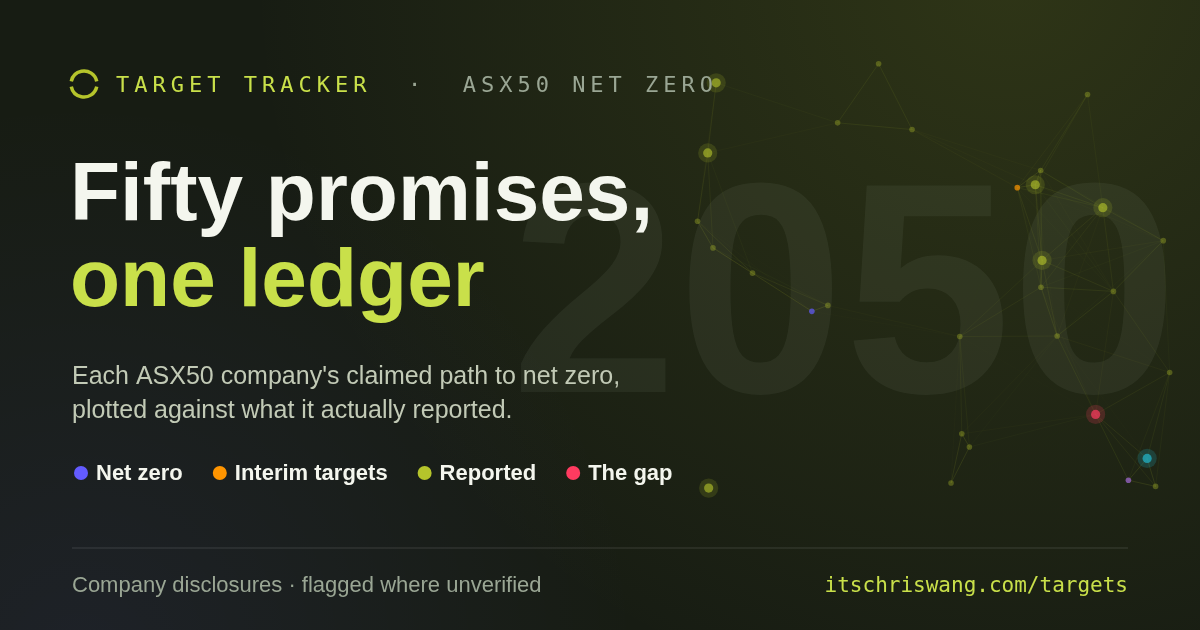
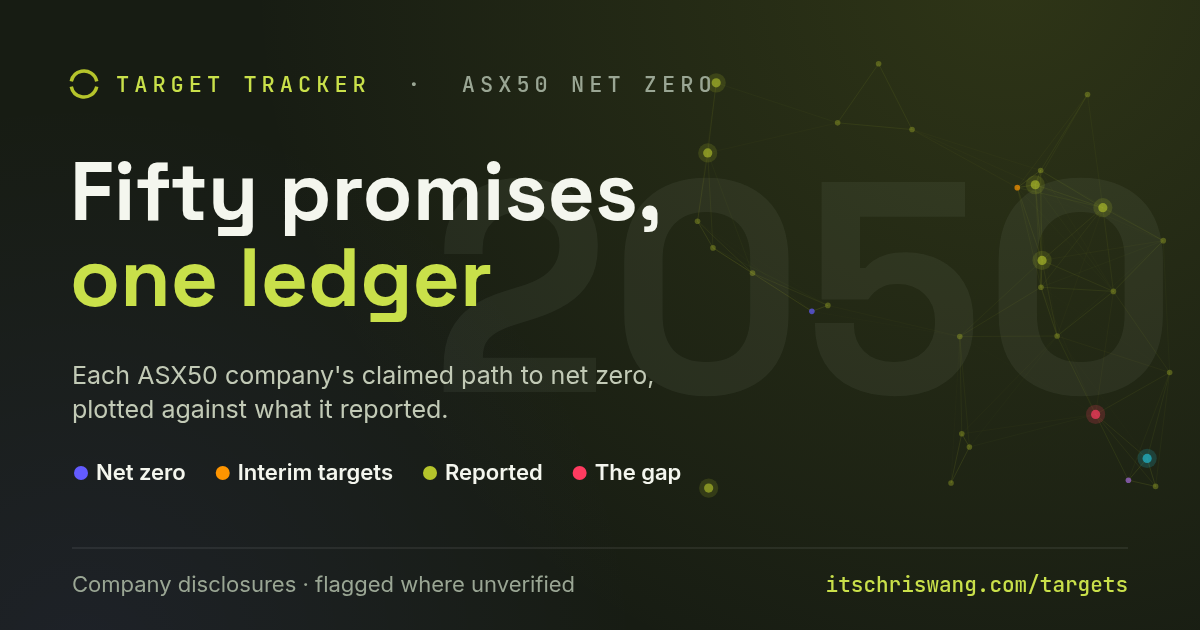
Remove another round of AI-writing tells from the site copy (#126)
A second editorial pass, following the same rules as the first.

The 'actually' reframe ('what X actually is') was the widespread one: 27
instances cut from rendered copy across every page, the entry-page meta
descriptions and the Target Tracker share card. Two instances stay on
purpose, in the recyclable-claim reasoning on Sustainability Daily and its
Cost Per Wear counterpart, where the word carries the technically-recyclable
versus recycled-in-practice distinction.

'Genuinely' cut in six places, 'quietly' in two. The Super Fund Holdings
intro loses its most-people-have-never-seen hook and now opens on the plain
fact of default placement. Australia's Climate Progress retitles from 'What
is actually changing' to 'What is changing, and how fast', carried through
the page title, og and twitter tags.

og-targets.png regenerated for its reworded support line.

diff --git a/src/fashion/data.js b/src/fashion/data.js
@@ -1223,7 +1223,7 @@ export const FIBRES = [
   { name: 'Recycled polyester (rPET)', kind: 'Synthetic', good: 'Roughly half the carbon of virgin polyester; look for GRS certification.', watch: 'Still sheds microplastics; mostly made from drink bottles, and it recycles once.' },
   { name: 'Nylon', kind: 'Synthetic', good: 'Strong and elastic; recycled versions (e.g. ECONYL) exist.', watch: 'Fossil-derived, energy-intensive, sheds microplastics.' },
   { name: 'Viscose / rayon', kind: 'Regenerated', good: 'Soft, breathable, plant-derived from wood pulp.', watch: 'Can drive deforestation and use harsh solvents unless responsibly sourced.' },
-  { name: 'Lyocell (Tencel)', kind: 'Regenerated', good: 'Wood pulp spun in a closed-loop solvent system; look for FSC pulp.', watch: 'Genuinely lower-impact only when the pulp is responsibly sourced.' },
+  { name: 'Lyocell (Tencel)', kind: 'Regenerated', good: 'Wood pulp spun in a closed-loop solvent system; look for FSC pulp.', watch: 'Lower-impact only when the pulp is responsibly sourced.' },
   { name: 'Leather', kind: 'Animal', good: 'Durable and repairable; ages well.', watch: 'Linked to land use and deforestation; tanning can be chemically intensive.' },
   { name: 'Elastane / spandex', kind: 'Synthetic', good: 'A little adds stretch and fit.', watch: 'Even small amounts blended in can make a garment unrecyclable.' },
 ];
@@ -1342,7 +1342,7 @@ export const LENS_CONCERNS = [
   },
   {
     id: 'ownership', label: 'Ownership and governance', signals: [], ownership: true,
-    why: 'Who actually makes the decisions on targets, suppliers and wages. Cost Per Wear verifies this for every brand on file.',
+    why: 'Who makes the decisions on targets, suppliers and wages. Cost Per Wear verifies this for every brand on file.',
   },
 ];
 
@@ -1411,7 +1411,7 @@ export const VAGUE_TERMS = [
   { re: /\bclean\b/gi, term: 'clean', ask: 'Clean of what? Name the substance or drop the word.' },
   { re: /\bkind (to|on) the planet\b/gi, term: 'kind to the planet', ask: 'The planet has not been consulted. State the measured impact instead.' },
   { re: /\bplanet[- ](positive|friendly)\b/gi, term: 'planet positive', ask: 'A net-positive claim needs extraordinary evidence. Where is it?' },
-  { re: /\bguilt[- ]free\b/gi, term: 'guilt-free', ask: 'Feelings are not a metric. State what the garment actually does.' },
+  { re: /\bguilt[- ]free\b/gi, term: 'guilt-free', ask: 'Feelings are not a metric. State what the garment does.' },
   { re: /\bearth[- ]friendly\b/gi, term: 'earth-friendly', ask: 'Friendly how? Pick an impact, state the change.' },
 ];
 
@@ -1740,7 +1740,7 @@ export function scoreCircularity(g, choices) {
 
   if (!g.isBlend && g.loop === 'mono') {
     rows.push({ id: 'mono', label: 'One-fibre construction', pts: 25, max: 25,
-      why: 'A single fibre means a recycler can actually take it.' });
+      why: 'A single fibre means a recycler can take it.' });
   } else if (!g.isBlend) {
     rows.push({ id: 'mono', label: 'One-fibre construction', pts: 15, max: 25,
       why: `${g.fibreA.name} recycles in theory, rarely in practice. Points for possibility.` });
@@ -1793,7 +1793,7 @@ export const COPY = {
   hero: {
     kicker: 'Fashion brand transparency',
     headA: 'Look up the brands',
-    headB: 'you actually wear',
+    headB: 'you wear',
     stand: 'Before you buy, see what a fashion brand is willing to tell you. Search any major label to find who really owns it, how much it discloses, and what still needs checking. What comes back is a disclosure record.',
     searchLabel: 'Search a fashion brand',
     searchPlaceholder: 'Try Nike, Zara, Gucci, Kmart, Uniqlo…',
@@ -1993,14 +1993,14 @@ export const COPY = {
     icon: 'book',
     title: 'Field guide',
     sub: 'Materials, labels, rules and claims',
-    lede: 'The working knowledge behind the lookup, in one place: what the common fibres trade off, what certifications actually verify, the rules about to change what brands must tell you, and a checker for the claims on the swing tag.',
+    lede: 'The working knowledge behind the lookup, in one place: what the common fibres trade off, what certifications verify, the rules about to change what brands must tell you, and a checker for the claims on the swing tag.',
     tabs: [
       { id: 'materials', label: 'Materials' },
       { id: 'certs', label: 'Certifications' },
       { id: 'regulation', label: 'Regulation' },
       { id: 'claim', label: 'Claim check' },
     ],
-    certTitle: 'What the certifications actually verify',
+    certTitle: 'What the certifications verify',
     certLede: 'A certificate proves one specific, bounded thing. Knowing its edge is how you avoid reading a single label as a blanket "this is good".',
     certVerifies: 'Verifies',
     certEdge: 'Its edge',

diff --git a/src/progress/data.js b/src/progress/data.js
@@ -33,9 +33,9 @@ export const META = {
 export const INTRO = {
   tag: 'The tracker',
   kicker: 'Australia · climate transition',
-  title: ['What is actually', 'changing'],
+  title: ['What is changing,', 'and how fast'],
   sub: 'Doom is easy and cheerleading is worse. This is a handful of real numbers on Australia\'s energy transition, each shown against where it was and against what the target needs, with the distance between the two stated plainly in whichever direction it runs.',
-  read: 'Each chapter reads the same way. First the reference point, quietly: what it was, or what the target needs. Then the number as it stands now. Then one sentence on the gap between them.',
+  read: 'Each chapter reads the same way. First the reference point: what it was, or what the target needs. Then the number as it stands now. Then one sentence on the gap between them.',
   scroll: 'Scroll',
 };
 
@@ -216,7 +216,7 @@ export const CHAPTERS = [
     },
     reveal: {
       value: 24.5, decimals: 1, prefix: '', suffix: '% below',
-      label: 'where emissions actually were in the year to December 2025, against the June 2005 base year',
+      label: 'where emissions stood in the year to December 2025, against the June 2005 base year',
       sub: 'Total emissions were 458.9 Mt CO2-e, down 2.1 per cent on the year before, all sectors including land use. Take the land sector out and the same release gives 510.9 Mt, only 3.8 per cent below 2005.',
     },
     gap: 'The target is 43 per cent below 2005 by 2030. At 24.5 per cent below, Australia sits roughly 10 percentage points behind the straight line to that target, with five years to close it. The Climate Change Authority puts the same gap as a rate: emissions fell about 10 Mt in 2025 and have averaged 8 Mt a year over five years, against the 18 Mt a year the 2030 target needs. That is roughly half the required pace. The land sector heavily shapes the headline, which is why the method spells out how it is counted.',
@@ -239,7 +239,7 @@ export const CHAPTERS = [
       label: 'of rooftop solar installed by the end of 2025, across about 4.3 million homes and small businesses',
       sub: 'On the Clean Energy Council\'s read, rooftop is projected to pass its 2029/30 benchmark by about 1 GW. That benchmark is AEMO\'s 2024 ISP projection of 36.1 GW of distributed solar in the NEM, a modelled capacity requirement.',
     },
-    gap: 'This is the metric that is genuinely ahead. Households built it faster than any policy asked them to, and it now carries a real share of daytime demand: rooftop alone was 14.2 per cent of generation in the second half of 2025. It is the only line on this page running ahead of what was modelled for it.',
+    gap: 'Households built this faster than any policy asked them to, and it now carries a real share of daytime demand: rooftop alone was 14.2 per cent of generation in the second half of 2025. It is the only line on this page running ahead of what was modelled for it.',
     period: 'To end of 2025',
     status: 'sourced',
     sources: ['cec_rooftop'],
@@ -253,7 +253,7 @@ export const SUMMARY = {
   title: ['Moving, and', 'not fast enough'],
   lead: 'Both columns below are true at the same time. Picking one of them is where most coverage of this subject goes wrong.',
   moving: {
-    head: 'What is genuinely moving',
+    head: 'What is moving',
     items: [
       'Renewables passed half the NEM in the December 2025 quarter, and out-generated coal for a whole month for the first time in September 2025.',
       'Electric cars went from under 1 per cent of new sales to more than 8 per cent in five years.',

diff --git a/progress/index.html b/progress/index.html
@@ -8,8 +8,8 @@
        noindex is the signal that removes it from search results it already
        reached. -->
   <meta name="robots" content="noindex, nofollow">
-  <title>Australia's Climate Progress | What is actually changing</title>
-  <meta name="description" content="An honest, scroll-driven tracker of what is actually changing in Australia's climate transition: renewables and coal in the NEM, EV sales, renewable build rate and national emissions, each read against the target and the gap. Sourced figures, dated, reviewed quarterly. A working tool by Chris Wang.">
+  <title>Australia's Climate Progress | What is changing, and how fast</title>
+  <meta name="description" content="An honest, scroll-driven tracker of what is changing in Australia's climate transition: renewables and coal in the NEM, EV sales, renewable build rate and national emissions, each read against the target and the gap. Sourced figures, dated, reviewed quarterly. A working tool by Chris Wang.">
   <link rel="canonical" href="https://itschriswang.com/progress/">
   <link rel="icon" type="image/svg+xml" href="../mark.svg">
   <link rel="icon" type="image/png" href="../favicon.png">
@@ -18,16 +18,16 @@
   <meta property="og:type" content="website">
   <meta property="og:site_name" content="Chris Wang | Sustainability Advisor">
   <meta property="og:url" content="https://itschriswang.com/progress/">
-  <meta property="og:title" content="Australia's Climate Progress | What is actually changing">
-  <meta property="og:description" content="A clear-eyed tracker of what is actually moving in Australia's transition, and by how much it still falls short. Real numbers, cited and dated, reviewed quarterly. A working tool by Chris Wang.">
+  <meta property="og:title" content="Australia's Climate Progress | What is changing, and how fast">
+  <meta property="og:description" content="A clear-eyed tracker of what is moving in Australia's transition, and by how much it still falls short. Real numbers, cited and dated, reviewed quarterly. A working tool by Chris Wang.">
   <meta property="og:image" content="https://itschriswang.com/og-progress.png">
   <meta property="og:image:width" content="1200">
   <meta property="og:image:height" content="630">
   <meta property="og:image:alt" content="Share card reading &quot;Is Australia on track?&quot;, with labels for grid, EV sales, capacity, emissions and target.">
   <meta property="og:locale" content="en_AU">
   <meta name="twitter:card" content="summary_large_image">
-  <meta name="twitter:title" content="Australia's Climate Progress | What is actually changing">
-  <meta name="twitter:description" content="What is actually changing in Australia's climate transition, read honestly against the target and the gap. A working tool by Chris Wang.">
+  <meta name="twitter:title" content="Australia's Climate Progress | What is changing, and how fast">
+  <meta name="twitter:description" content="What is changing in Australia's climate transition, and how fast, read honestly against the target and the gap. A working tool by Chris Wang.">
   <meta name="twitter:image" content="https://itschriswang.com/og-progress.png">
   <link rel="preconnect" href="https://fonts.googleapis.com">
   <link rel="preconnect" href="https://fonts.gstatic.com" crossorigin>

diff --git a/src/super/data.js b/src/super/data.js
@@ -388,7 +388,7 @@ export const COPY = {
     tag: 'Super Fund Holdings',
     title: ['What your default', 'super option holds'],
     paras: [
-      'Most Australians have never seen what their default super option actually holds. You are placed in a MySuper default when you start a job, and it quietly invests a large share of your retirement money for decades. This tool puts one thing next to another: the holdings picture of a fund\'s default option, and that same fund\'s own sustainability marketing, in the fund\'s own words.',
+      'You are placed in a MySuper default when you start a job, and it invests a large share of your retirement money for decades. Few members ever read what that option holds. This tool puts one thing next to another: the holdings picture of a fund\'s default option, and that same fund\'s own sustainability marketing, in the fund\'s own words.',
       'It is not an accusation. Pick a fund, read what it says about climate and responsibility, then look at what the default option holds, and make up your own mind.',
     ],
     chips: ['MySuper defaults', 'Holdings next to marketing', 'Every figure sourced or marked pending', 'Neutral and factual'],
@@ -467,7 +467,7 @@ export const METHOD = {
   boundary: {
     title: 'Boundary: default options only',
     paras: [
-      'This tool looks at one thing per fund: the default MySuper option, the one you are placed in when you start a job and never choose an option yourself. The default is where most people\'s money actually sits, most of them without ever picking it, so it is the option that describes what the fund does with a typical member\'s retirement savings.',
+      'This tool looks at one thing per fund: the default MySuper option, the one you are placed in when you start a job and never choose an option yourself. The default is where most people\'s money sits, most of them without ever picking it, so it is the option that describes what the fund does with a typical member\'s retirement savings.',
       'Most funds also offer a screened, sustainable or ethical option. Those are a member\'s active choice, they hold different things, and they are not shown here. Judging a fund\'s default by its sustainable option, or the reverse, would be misleading, so the two are kept apart. Where a fund\'s default is a lifecycle strategy that shifts with age, the tool describes the growth-stage settings a younger member sits in, and says so.',
       'The tool reads the option level. A large fund runs many options; a holding can be heavy in one and absent from another. Reporting a whole-of-fund number against a single option would overstate or understate it. The unit here is the option.',
     ],

diff --git a/targets/index.html b/targets/index.html
@@ -9,7 +9,7 @@
        reached. -->
   <meta name="robots" content="noindex, nofollow">
   <title>The Target Tracker | ASX50 net zero, claim against record</title>
-  <meta name="description" content="An ASX50 corporate net zero tracker. For each company it draws the emissions trajectory the company has claimed, from its stated base year through its interim targets to its net zero date, then plots the Scope 1 and 2 emissions it has actually reported on top of it. Sourced, dated, gaps named. A working tool by Chris Wang.">
+  <meta name="description" content="An ASX50 corporate net zero tracker. For each company it draws the emissions trajectory the company has claimed, from its stated base year through its interim targets to its net zero date, then plots the Scope 1 and 2 emissions it has reported on top of it. Sourced, dated, gaps named. A working tool by Chris Wang.">
   <link rel="canonical" href="https://itschriswang.com/targets/">
   <link rel="icon" type="image/svg+xml" href="../mark.svg">
   <link rel="icon" type="image/png" href="../favicon.png">
@@ -19,7 +19,7 @@
   <meta property="og:site_name" content="Chris Wang | Sustainability Advisor">
   <meta property="og:url" content="https://itschriswang.com/targets/">
   <meta property="og:title" content="The Target Tracker | ASX50 net zero, claim against record">
-  <meta property="og:description" content="The claimed net zero trajectory of each ASX50 company, drawn against the Scope 1 and 2 emissions it has actually reported. A working tool by Chris Wang.">
+  <meta property="og:description" content="The claimed net zero trajectory of each ASX50 company, drawn against the Scope 1 and 2 emissions it has reported. A working tool by Chris Wang.">
   <meta property="og:image" content="https://itschriswang.com/og-targets.png">
   <meta property="og:image:width" content="1200">
   <meta property="og:image:height" content="630">
@@ -27,7 +27,7 @@
   <meta property="og:locale" content="en_AU">
   <meta name="twitter:card" content="summary_large_image">
   <meta name="twitter:title" content="The Target Tracker | ASX50 net zero, claim against record">
-  <meta name="twitter:description" content="The claimed net zero line of each ASX50 company, drawn against the emissions it has actually reported. A working tool by Chris Wang.">
+  <meta name="twitter:description" content="The claimed net zero line of each ASX50 company, drawn against the emissions it has reported. A working tool by Chris Wang.">
   <meta name="twitter:image" content="https://itschriswang.com/og-targets.png">
   <link rel="preconnect" href="https://fonts.googleapis.com">
   <link rel="preconnect" href="https://fonts.gstatic.com" crossorigin>

diff --git a/fashion/index.html b/fashion/index.html
@@ -9,7 +9,7 @@
        reached. -->
   <meta name="robots" content="noindex, nofollow">
   <title>Cost Per Wear | Fashion brand transparency lookup</title>
-  <meta name="description" content="Cost Per Wear: look up the fashion brands you actually wear and see what they disclose. Real corporate ownership, Fashion Transparency Index 2023 scores and SBTi climate targets for 250+ major brands and retailers. Disclosure status, field by field. A working tool by Chris Wang.">
+  <meta name="description" content="Cost Per Wear: look up the fashion brands you wear and see what they disclose. Real corporate ownership, Fashion Transparency Index 2023 scores and SBTi climate targets for 250+ major brands and retailers. Disclosure status, field by field. A working tool by Chris Wang.">
   <link rel="canonical" href="https://itschriswang.com/fashion/">
   <link rel="icon" type="image/svg+xml" href="../mark.svg">
   <link rel="icon" type="image/png" href="../favicon.png">
@@ -19,7 +19,7 @@
   <meta property="og:site_name" content="Chris Wang | Sustainability Advisor">
   <meta property="og:url" content="https://itschriswang.com/fashion/">
   <meta property="og:title" content="Cost Per Wear | Fashion brand transparency lookup">
-  <meta property="og:description" content="Look up the fashion brands you actually wear. See who really owns them, how much they disclose, and what still needs checking. 250+ brands, cited to Fashion Revolution and the SBTi. A working tool by Chris Wang.">
+  <meta property="og:description" content="Look up the fashion brands you wear. See who really owns them, how much they disclose, and what still needs checking. 250+ brands, cited to Fashion Revolution and the SBTi. A working tool by Chris Wang.">
   <meta property="og:image" content="https://itschriswang.com/og-fashion.png">
   <meta property="og:image:width" content="1200">
   <meta property="og:image:height" content="630">
@@ -27,7 +27,7 @@
   <meta property="og:locale" content="en_AU">
   <meta name="twitter:card" content="summary_large_image">
   <meta name="twitter:title" content="Cost Per Wear | Fashion brand transparency lookup">
-  <meta name="twitter:description" content="Look up the fashion brands you actually wear and see what they disclose. A working tool by Chris Wang.">
+  <meta name="twitter:description" content="Look up the fashion brands you wear and see what they disclose. A working tool by Chris Wang.">
   <meta name="twitter:image" content="https://itschriswang.com/og-fashion.png">
   <link rel="preconnect" href="https://fonts.googleapis.com">
   <link rel="preconnect" href="https://fonts.gstatic.com" crossorigin>

diff --git a/src/data/content.js b/src/data/content.js
@@ -128,7 +128,7 @@ export const TOOLS_INTRO = {
   idx: '03 / ',
   title: ['Built,', 'not claimed'],
   paras: [
-    'Two tools, built in my own time and maintained since. Each one takes a question a sustainability team actually has to answer and answers it in public, with sourced numbers, a stated method, and the gaps named.',
+    'Two tools, built in my own time and maintained since. Each one takes a question a sustainability team has to answer and answers it in public, with sourced numbers, a stated method, and the gaps named.',
     'They run on the same discipline I bring to a reporting cycle. If a figure cannot be traced to a citation and an access date, it does not go on the page. Where a number is an estimate, the page says so beside the number.',
     'The chart on each card is drawn from that tool\'s own data, and says underneath it what stands behind the numbers.',
   ],
@@ -203,7 +203,7 @@ export const PRIVATE_TOOLS = [
   {
     n: '03', icon: 'coins', color: 'var(--sage-2)',
     name: 'Super Fund Holdings', spec: 'super', span: 2, href: '../super/',
-    what: 'What the big default super options actually hold and where the sector exposure sits, put next to what each fund says about sustainability in its own marketing.',
+    what: 'What the big default super options hold and where the sector exposure sits, put next to what each fund says about sustainability in its own marketing.',
     proves: 'Turning a statutory disclosure obligation into something a member can read, with a confidence flag on every field and a last-verified date per fund.',
     tags: ['s1017BB holdings', 'Sector exposure', 'Confidence flags'],
     scope: '10 funds · MySuper default options · methodology on its own route',
@@ -211,7 +211,7 @@ export const PRIVATE_TOOLS = [
   {
     n: '04', icon: 'bolt', color: 'var(--lime-bright)',
     name: 'Grid Intensity', spec: 'grid', span: 4, href: '../grid/',
-    what: 'Reads the live National Electricity Market fuel mix and answers one question: run it now, or wait. Then explains the factor a business would actually report against.',
+    what: 'Reads the live National Electricity Market fuel mix and answers one question: run it now, or wait. Then explains the factor a business would report against.',
     proves: 'Scope 2 accounting taught properly, location-based against market-based, with GreenPower, PPAs and LGC surrender all in the toggle.',
     tags: ['Live AEMO data', 'Scope 2', 'Market vs location'],
     scope: '5 NEM regions live · WA and NT named as out of scope',

diff --git a/src/daily/data.js b/src/daily/data.js
@@ -420,7 +420,7 @@ export const CLAIM_POOL = [
     claim: 'We cut our Scope 1 and 2 emissions 28% against a verified 2019 baseline, disclosed to the CDP',
     verdict: 'legit', principle: 'Have evidence to back up your claims',
     rule: RULE.accc,
-    reasoning: 'Named scopes, a real percentage, a stated baseline year and third-party disclosure. It is careful to claim only Scopes 1 and 2, and says so, which is the kind of boundary honesty regulators actually reward. Substantiated and qualified.',
+    reasoning: 'Named scopes, a real percentage, a stated baseline year and third-party disclosure. It is careful to claim only Scopes 1 and 2, and says so, which is the kind of boundary honesty regulators reward. Substantiated and qualified.',
   },
   {
     id: 'climate-positive', speaker: 'A drinks start-up claims',
@@ -539,7 +539,7 @@ export const CLAIM_POOL = [
     claim: 'Guilt-free swimwear for a cleaner ocean',
     verdict: 'greenwash', principle: 'Use clear and easy-to-understand language',
     rule: RULE.accc,
-    reasoning: 'Feelings are not a metric, and "a cleaner ocean" is an unmeasured outcome the garment cannot deliver on its own. This is mood. State what the product actually is and does, or the claim says nothing at all.',
+    reasoning: 'Feelings are not a metric, and "a cleaner ocean" is an unmeasured outcome the garment cannot deliver on its own. This is mood. State what the product is and does, or the claim says nothing at all.',
   },
   {
     id: 'green-energy-tariff', speaker: 'An energy retailer\'s ad says',
@@ -553,7 +553,7 @@ export const CLAIM_POOL = [
     claim: 'Plastic-free packaging',
     verdict: 'legit', principle: 'Make accurate and truthful claims',
     rule: RULE.accc,
-    reasoning: 'This one is specific and testable: it claims the packaging only, and "plastic-free" is a binary fact you can verify by opening the box. As long as the tape and label are genuinely plastic-free too, it is an accurate, bounded claim. Scope kept honest.',
+    reasoning: 'This one is specific and testable: it claims the packaging only, and "plastic-free" is a binary fact you can verify by opening the box. As long as the tape and label are plastic-free too, it is an accurate, bounded claim. Scope kept honest.',
   },
   {
     id: 'biodegradable-no-conditions', speaker: 'A phone case is sold as',

diff --git a/src/footprint/data/copy.js b/src/footprint/data/copy.js
@@ -11,7 +11,7 @@ export const INTRO = {
   h1a: 'Calculate your year of',
   h1b: 'carbon emissions',
   paras: [
-    'I measure carbon for a living, so I pointed the same maths at my own year. This is a plain-English carbon calculator and a visual case study in one: see where a real year of flights, power, food and freight actually goes, then run your own. Your answers stay in this browser.',
+    'I measure carbon for a living, so I pointed the same maths at my own year. This is a plain-English carbon calculator and a visual case study in one: see where a real year of flights, power, food and freight goes, then run your own. Your answers stay in this browser.',
   ],
   chips: ['No account', 'No server', 'Stays in your browser', 'Export any time'],
   ctaStart: 'Calculate your own',
@@ -304,7 +304,7 @@ export const ONBOARD = {
     entertainment: 'Entertainment and going out, $ a month',
     entertainmentNote: 'Streaming and subscriptions, the gym, gigs, cinema and events. Not meals and drinks: your diet already covers the food.',
     health: 'Health, out of pocket, $ a month',
-    healthNote: 'Gap payments, pharmacy, physio, dental, glasses: whatever actually leaves your pocket after Medicare and insurance. Typically $20 to $150 a month. Not sure? $50 is a fair estimate, about one pharmacy run plus a specialist gap fee.',
+    healthNote: 'Gap payments, pharmacy, physio, dental, glasses: whatever leaves your pocket after Medicare and insurance. Typically $20 to $150 a month. Not sure? $50 is a fair estimate, about one pharmacy run plus a specialist gap fee.',
     other: 'Other goods and services, $ a month',
     otherNote: 'Everything else in the trolley: furniture and homewares, personal care, haircuts, hobbies, gifts, pet food and vet bills. Rent, groceries and transport are counted elsewhere. Typically $100 to $400 a month. Not sure? $200 is a fair estimate, about a haircut, toiletries and a bit of pet care.',
     homeQuestion: 'Did you build or buy this home brand new?',

diff --git a/src/targets/data.js b/src/targets/data.js
@@ -28,7 +28,7 @@ export const INTRO = {
   tag: 'The tracker',
   kicker: 'ASX50 · corporate net zero',
   title: ['Fifty promises,', 'one ledger'],
-  sub: 'A target year is easy to announce and hard to check. This page does the checking. For each company in the S&P/ASX 50 it draws the trajectory the company itself has claimed, from its stated base year through its interim targets to its net zero date, and then plots the Scope 1 and 2 emissions it has actually reported on top of it.',
+  sub: 'A target year is easy to announce and hard to check. This page does the checking. For each company in the S&P/ASX 50 it draws the trajectory the company itself has claimed, from its stated base year through its interim targets to its net zero date, and then plots the Scope 1 and 2 emissions it has reported on top of it.',
   read: 'Every card reads the same way. The dashed line is what the company said it would do. The solid line is what it has reported. The sentence underneath states the distance between them in the latest reported year, with no adjective attached.',
   scroll: 'Scroll',
 };
@@ -2527,7 +2527,7 @@ export const SUMMARY = {
   title: ['Well stated,', 'thinly evidenced'],
   lead: 'Reading every card in one sitting leaves two impressions, and they do not cancel each other out.',
   moving: {
-    head: 'What is genuinely there',
+    head: 'What the record supports',
     items: [
       '42 of the 50 carry a dated net zero commitment, and 32 back it with an absolute tonnage target for the 2030 era. Five years ago neither count would have been close.',
       'Some targets got harder. Telstra lifted its 2030 cut from 50 to 70 per cent as it walked away from offset backed neutrality claims, and Woolworths replaced its old target with a deeper SBTi validated one.',

diff --git a/src/grid/data.js b/src/grid/data.js
@@ -42,7 +42,7 @@ export const INTRO = {
   tag: 'Grid intensity',
   title: ['When is the grid', 'clean enough'],
   lead:
-    'Run the dishwasher now, or wait two hours. This reads the live National Electricity Market fuel mix and gives you one answer for your state, then explains the factor a business would actually report against.',
+    'Run the dishwasher now, or wait two hours. This reads the live National Electricity Market fuel mix and gives you one answer for your state, then explains the factor a business would report against.',
   chips: ['Live NEM data', 'Generation-mix estimate', 'Location vs market-based'],
   note: 'Two views, one data source. Live for the timing call, Explorer for the accounting.',
 };
@@ -218,7 +218,7 @@ export const EXPLORER_YEARS = [
 export const EXPLORER_COPY = {
   tag: 'Explorer',
   heading: 'Location-based or market-based',
-  sub: 'The same kilowatt-hour has two carbon numbers. This shows both side by side, and lets you move the one your electricity contract can actually change.',
+  sub: 'The same kilowatt-hour has two carbon numbers. This shows both side by side, and lets you move the one your electricity contract can change.',
   yearLabel: 'Reporting edition',
   yearNote:
     'Only the current edition is shown. Earlier years are left out because their exact published figures could not be verified to citation grade here, and a wrong factor is worse than a missing one. One thing is worth knowing: the 2025-26 residual mix factor is a single national figure, and the guideline applies it to every facility on the market-based method, whatever state it is in and whether or not it is on the main grid. There is no state-level residual mix factor to pick from.',

diff --git a/src/footprint/data/factors.js b/src/footprint/data/factors.js
@@ -98,7 +98,7 @@ export const ELECTRICITY_SOURCE = {
 // the default until a state is chosen.
 export const ELECTRICITY_SOURCE_NZ = {
   name: 'NZ Ministry for the Environment, Measuring Emissions Catalogue 2026',
-  detail: 'Purchased grid-average electricity for the national grid, about 85% renewable (hydro, wind, geothermal), read from Table 5.2 (annual averages, 2010 to 2025) at the 2025 annual figure. Scope 3 is the catalogue\'s own separate transmission-and-distribution loss factor from Table 5.4, so the line no longer understates by leaving losses out. The annual series is genuinely volatile because a dry hydrological year pulls thermal generation in: 2024 read 0.0993596 against 2025\'s 0.0786625, a 26% swing, so a New Zealand total moves with the year it is priced in.',
+  detail: 'Purchased grid-average electricity for the national grid, about 85% renewable (hydro, wind, geothermal), read from Table 5.2 (annual averages, 2010 to 2025) at the 2025 annual figure. Scope 3 is the catalogue\'s own separate transmission-and-distribution loss factor from Table 5.4, so the line no longer understates by leaving losses out. The annual series is volatile because a dry hydrological year pulls thermal generation in: 2024 read 0.0993596 against 2025\'s 0.0786625, a 26% swing, so a New Zealand total moves with the year it is priced in.',
   url: 'https://environment.govt.nz/publications/measuring-emissions-a-guide-for-organisations-2026-detailed-guide/',
 };
 
